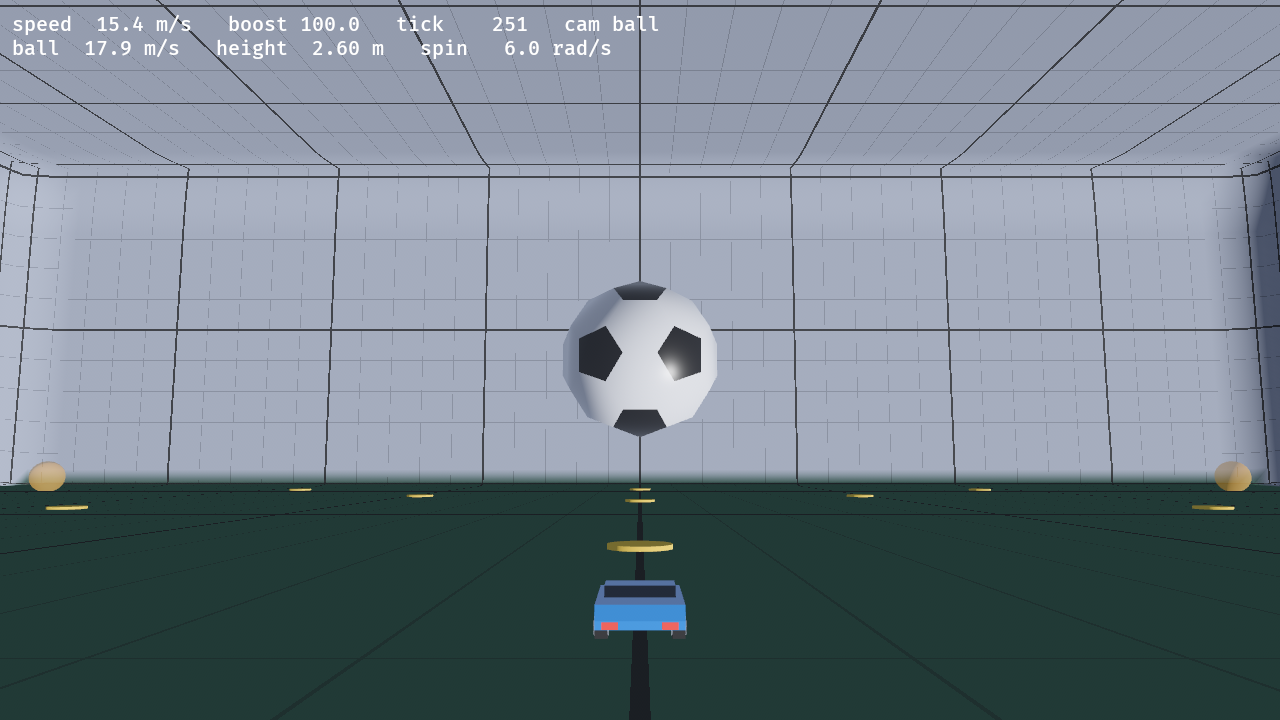
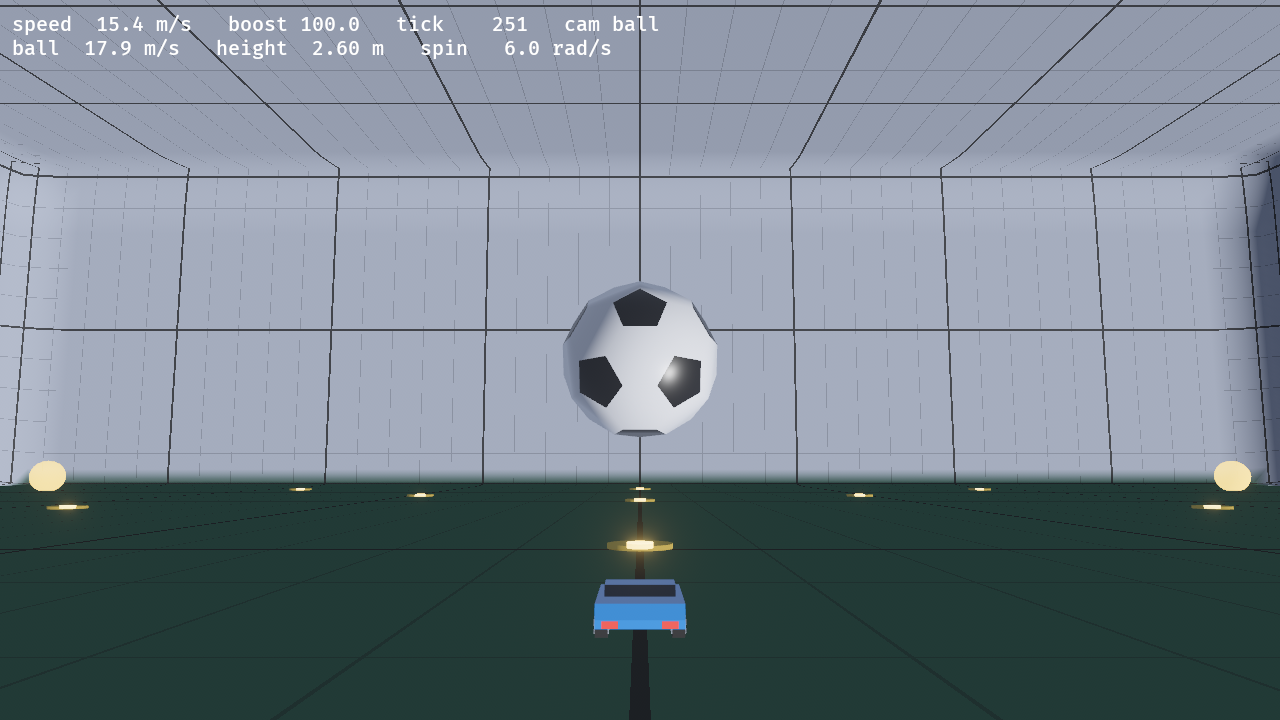
viewer: glow the boost pads
HDR + bloom on the camera, with the prefilter threshold set above every lit surface (the ball peaks around 2-3 in the exposed HDR buffer) so only the pads cross it and bloom - an earlier threshold of ~1 caught the whole scene and smeared it.

The small pads are two pieces: a faint translucent disc, kept under the threshold so the pitch grid reads straight through it, plus a small opaque core that blooms for the halo. One surface can't be both, since a blooming pixel is near-white and hides what's behind it.

The disc carries no Vis, so it stays on the pitch when the boost is taken; only the core (and the big orb) go on cooldown.

diff --git a/view/src/main.rs b/view/src/main.rs
@@ -14,9 +14,11 @@ use std::f32::consts::PI;
 
 use bevy::app::AppExit;
 use bevy::asset::RenderAssetUsages;
+use bevy::camera::Hdr;
 use bevy::image::{ImageAddressMode, ImageSampler, ImageSamplerDescriptor};
 use bevy::input::gamepad::{RawGamepadAxisChangedEvent, RawGamepadButtonChangedEvent};
 use bevy::mesh::{Indices, PrimitiveTopology};
+use bevy::post_process::bloom::{Bloom, BloomCompositeMode, BloomPrefilter};
 use bevy::prelude::*;
 use bevy::render::render_resource::{Extent3d, TextureDimension, TextureFormat};
 use bevy::render::view::screenshot::{save_to_disk, Screenshot};
@@ -120,7 +122,9 @@ struct BallCam(bool);
 enum Vis {
     Car,
     Ball,
-    /// A boost pad, indexed into `World::boost_pads`.
+    /// A boost pad's glowing part, indexed into `World::boost_pads`. Hidden while
+    /// the pad is on cooldown. The small pads' translucent base disc has no `Vis`
+    /// at all, so it stays on the pitch whether or not the boost is available.
     BoostPad(usize),
 }
 
@@ -240,31 +244,76 @@ fn setup_scene(
     // `sync_visuals`).
     let pad_big_mesh = meshes.add(Sphere::new(0.8).mesh().uv(24, 18));
     let pad_small_mesh = meshes.add(Cylinder::new(0.55, 0.08));
+    // The small pad is two pieces: a faint translucent disc (the part you can
+    // see the pitch grid through) plus a small opaque core that blooms. They have
+    // to be separate meshes because one material cannot be both - a surface that
+    // blooms is near-white and hides whatever is behind it, whatever its alpha.
+    // The core is opaque so it takes part in the opaque pass and the translucent
+    // disc then depth-tests and blends over it, leaving an annulus of see-through
+    // disc around a glowing middle.
+    let pad_small_core_mesh = meshes.add(Cylinder::new(0.22, 0.1));
     let pad_big_mat = materials.add(StandardMaterial {
-        base_color: Color::srgba(1.0, 0.72, 0.15, 0.55),
-        emissive: LinearRgba::rgb(0.35, 0.20, 0.0),
+        base_color: Color::srgba(1.0, 0.72, 0.15, 0.4),
+        // Emissive is what makes the orb glow: it is set well above the bloom
+        // threshold below, so the pad blooms where nothing lit does. The orb is
+        // blended, so the emissive has to be strong to survive `alpha < 1` and
+        // still throw a halo, while staying weak enough that the pitch shows
+        // through it.
+        emissive: LinearRgba::rgb(14.0, 9.5, 2.0),
+        alpha_mode: AlphaMode::Blend,
+        perceptual_roughness: 1.0,
+        // Both cap faces of the sphere are drawn, so the far wall of the orb
+        // shows through the near one and the sphere reads as a volume, not a
+        // flat disc.
+        cull_mode: None,
+        ..default()
+    });
+    let pad_small_mat = materials.add(StandardMaterial {
+        // Kept faint so it reads as translucent, with the pitch grid showing
+        // straight through it. All of the small pad's glow comes from the core
+        // below, not from here.
+        base_color: Color::srgba(1.0, 0.85, 0.28, 0.35),
+        emissive: LinearRgba::rgb(0.5, 0.36, 0.08),
         alpha_mode: AlphaMode::Blend,
         perceptual_roughness: 1.0,
         ..default()
     });
-    let pad_small_mat = materials.add(StandardMaterial {
-        base_color: Color::srgb(1.0, 0.85, 0.25),
+    let pad_small_core_mat = materials.add(StandardMaterial {
+        base_color: Color::srgb(1.0, 0.85, 0.45),
+        // Above the bloom threshold, so the core throws the halo the disc cannot.
+        // Kept modest on purpose: a hotter core washes the grid out of the ring.
+        emissive: LinearRgba::rgb(10.0, 6.7, 1.7),
         perceptual_roughness: 1.0,
         ..default()
     });
     for (i, pad) in sim.0.boost_pads.iter().enumerate() {
-        let (mesh, material, y) = if pad.is_big {
-            (pad_big_mesh.clone(), pad_big_mat.clone(), pad.pos.y as f32)
+        if pad.is_big {
+            // The orb *is* the pad, so the whole thing goes on cooldown.
+            commands.spawn((
+                Mesh3d(pad_big_mesh.clone()),
+                MeshMaterial3d(pad_big_mat.clone()),
+                Transform::from_xyz(pad.pos.x as f32, pad.pos.y as f32, pad.pos.z as f32),
+                Vis::BoostPad(i),
+            ));
         } else {
-            // Disc sits on the floor (half its height above y = 0).
-            (pad_small_mesh.clone(), pad_small_mat.clone(), 0.04)
-        };
-        commands.spawn((
-            Mesh3d(mesh),
-            MeshMaterial3d(material),
-            Transform::from_xyz(pad.pos.x as f32, y, pad.pos.z as f32),
-            Vis::BoostPad(i),
-        ));
+            // The translucent disc is permanent scenery: it carries no `Vis`, so
+            // `sync_visuals` never hides it and the marking stays put. Disc sits
+            // on the floor (half its height above y = 0).
+            commands.spawn((
+                Mesh3d(pad_small_mesh.clone()),
+                MeshMaterial3d(pad_small_mat.clone()),
+                Transform::from_xyz(pad.pos.x as f32, 0.04, pad.pos.z as f32),
+            ));
+            // Only the glow comes and goes. Poking just above the disc so it is
+            // not coplanar; shares the pad index, so `sync_visuals` hides it on
+            // cooldown.
+            commands.spawn((
+                Mesh3d(pad_small_core_mesh.clone()),
+                MeshMaterial3d(pad_small_core_mat.clone()),
+                Transform::from_xyz(pad.pos.x as f32, 0.05, pad.pos.z as f32),
+                Vis::BoostPad(i),
+            ));
+        }
     }
 
     // --- car ---
@@ -462,8 +511,34 @@ fn setup_scene(
     ));
 
     // --- camera ---
+    // HDR plus bloom, so the emissive boost pads glow.
+    //
+    // The prefilter threshold is the whole trick, and it has to sit *above*
+    // everything else in the scene. HDR linear values here are already exposure-
+    // scaled (the camera uses the default `Exposure`, EV100 9.7), so a lit white
+    // surface is only a couple of units - the ball peaks around 2-3 - while an
+    // unlit wall is well under 1. A threshold near 1 therefore caught the ball,
+    // the car body and the walls too, and the additive composite smeared the
+    // whole frame into a glow. At 6.0 only the big orbs clear it once blended
+    // (`alpha * emissive` is ~5.6, just inside the knee below); the small discs
+    // are held under the threshold on purpose so they stay translucent (see
+    // `pad_small_mat`). The soft knee reaches down to
+    // `threshold * (1 - softness)` = 3.0, still clear of the ball.
     commands.spawn((
         Camera3d::default(),
+        Hdr,
+        Bloom {
+            intensity: 0.4,
+            prefilter: BloomPrefilter {
+                threshold: 6.0,
+                threshold_softness: 0.5,
+            },
+            // Additive, so the pads *flare* rather than merely brighten. This is
+            // the recommended composite mode once a non-energy-conserving
+            // prefilter is used.
+            composite_mode: BloomCompositeMode::Additive,
+            ..Bloom::NATURAL
+        },
         Transform::from_xyz(0.0, 3.2, -22.0).looking_at(Vec3::new(0.0, 0.8, 0.0), Vec3::Y),
         ChaseCam,
     ));
@@ -1206,7 +1281,8 @@ fn sync_visuals(sim: Res<Sim>, mut query: Query<(&mut Transform, &Vis, &mut Visi
             }
             Vis::BoostPad(index) => {
                 let pad = &sim.0.boost_pads[*index];
-                // Hidden while on cooldown, so a taken pad leaves nothing behind.
+                // Hidden while on cooldown, so only the glow leaves when the pad
+                // is taken (the small pads' disc is not tagged, so it stays).
                 *visibility = if pad.available() {
                     Visibility::Inherited
                 } else {
